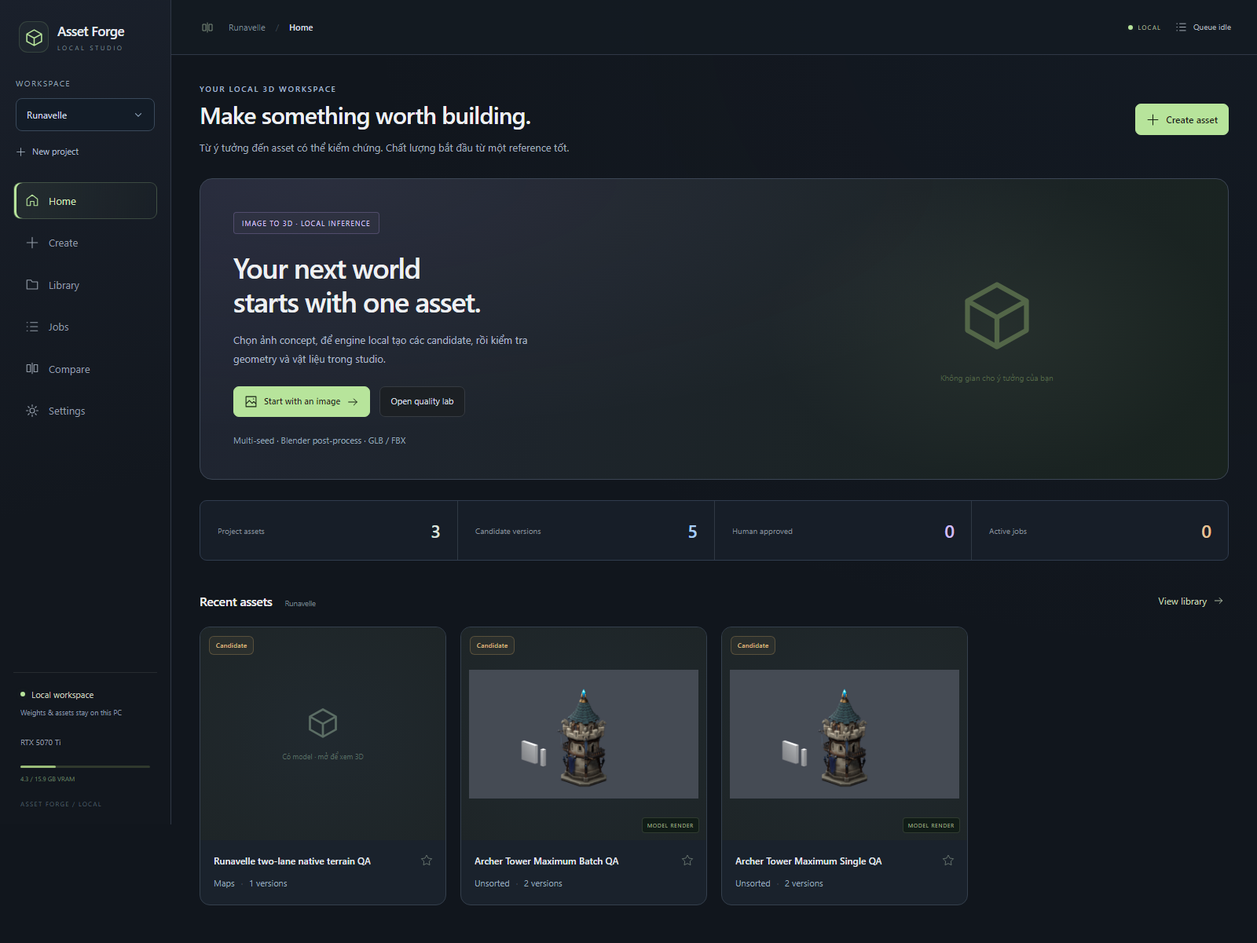
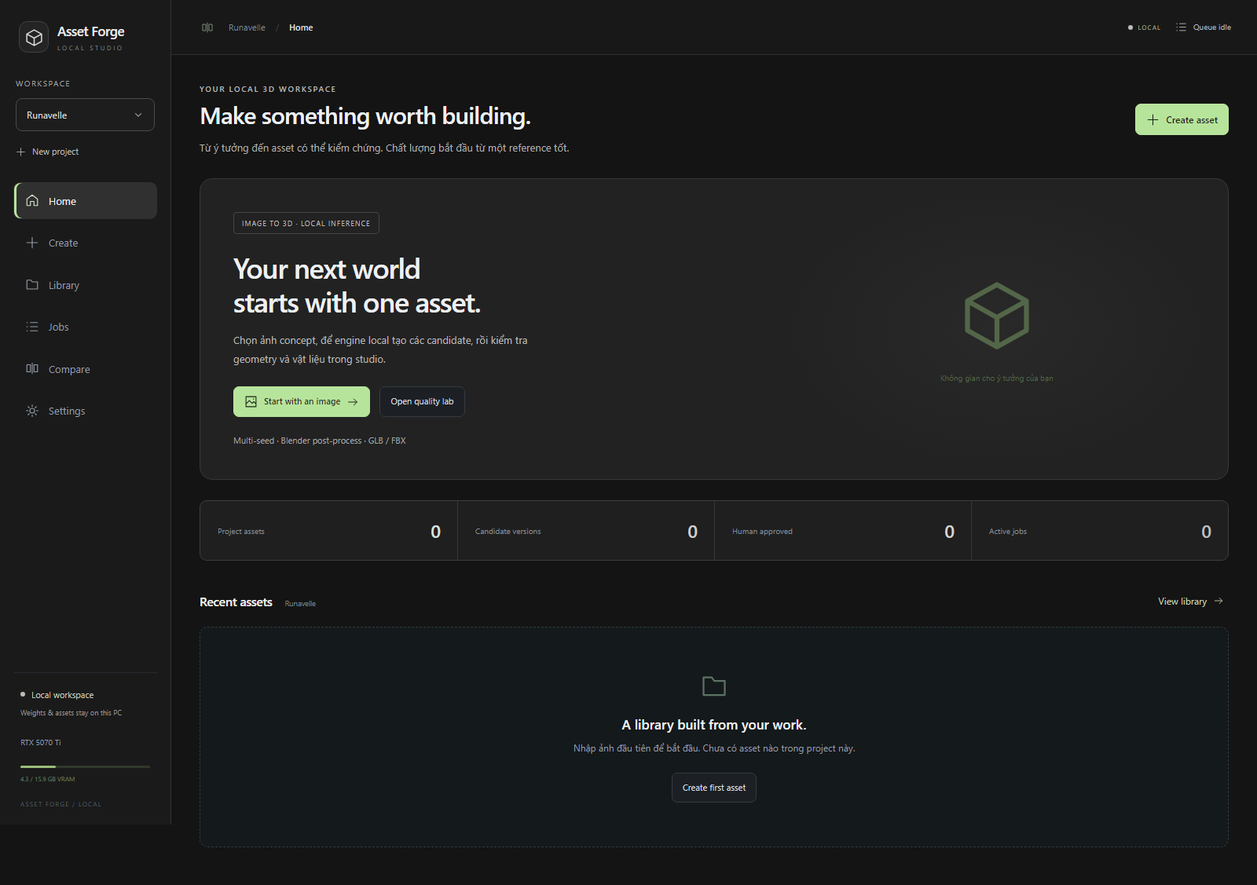
style: replace tinted outlined panels with a neutral graphite studio

diff --git a/apps/web/src/refinement.css b/apps/web/src/refinement.css
@@ -1,161 +1,210 @@
-/* Expansion studio: restrained mint actions, blue information, lilac creative tools,
-   amber review, and coral errors. Status color always accompanies a text label. */
+/* Graphite studio: solid neutral surfaces, deliberate spacing, and color reserved for primary actions and concise status marks. */
 .studio {
-  --accent: #b7e49b;
-  --line: #303944;
-  --surface: #181e26;
-  --muted: #99a7b7;
-  --info: #9ac8f8;
-  --creative: #c2b1ef;
-  color: #e4e9ef;
-  background: radial-gradient(ellipse at 95% 0, #45658a0d, transparent 50%), #11161d;
+  --accent: #bdbdbd;
+  --line: #3a3a3a;
+  --surface: #1f1f1f;
+  --muted: #a8a8a8;
+  --info: #c9c9c9;
+  --creative: #cbcbcb;
+  color: #e9e9e9;
+  background: radial-gradient(ellipse at 95% 0, #6767670d, transparent 50%), #171717;
 }
 .studio button, .studio a, .studio input, .studio textarea, .studio summary {
   transition: background-color 160ms ease, border-color 160ms ease, color 160ms ease, box-shadow 160ms ease, transform 160ms ease;
 }
 .studio :is(button,a,input,textarea,summary):focus-visible, .afs-select-trigger:focus-visible {
-  outline: 2px solid #a9d9ff;
+  outline: 2px solid #d6d6d6;
   outline-offset: 3px;
-  box-shadow: 0 0 0 5px #82b5f315;
+  box-shadow: 0 0 0 5px #b9b9b915;
 }
 .studio button:active:not(:disabled) { transform: translateY(1px); }
-.studio-sidebar { background: linear-gradient(165deg, #1a202b, #12171e 60%); border-right-color: #303846; }
-.studio .studio-topbar { background: #141a22e8; border-bottom-color: #303846; }
+.studio-sidebar { background: linear-gradient(165deg, #222222, #181818 60%); border-right-color: #3a3a3a; }
+.studio .studio-topbar { background: #1b1b1be8; border-bottom-color: #3a3a3a; }
 .studio .studio-main { padding: 32px 36px 48px; }
 .studio .studio-brand > span { letter-spacing: -.45px; }
-.studio .brand-symbol { background: #b7e49b0b; border: 1px solid #b7e49b26; border-radius: 11px; width: 38px; height: 40px; }
+.studio .brand-symbol { background: #bdbdbd0b; border: 1px solid #bdbdbd26; border-radius: 11px; width: 38px; height: 40px; }
 .studio .project-switch { margin-top: 32px; margin-bottom: 24px; }
-.studio .project-switch > label { color: #94a1b2; font-size: 10px; letter-spacing: 1.5px; margin-bottom: 12px; }
-.studio .project-new { margin-top: 12px; padding: 6px 0; font-size: 11px; color: #aebccd; }
+.studio .project-switch > label { color: #a2a2a2; font-size: 10px; letter-spacing: 1.5px; margin-bottom: 12px; }
+.studio .project-new { margin-top: 12px; padding: 6px 0; font-size: 11px; color: #bdbdbd; }
 .studio-sidebar nav > a { padding: 13px 14px; font-size: 13px; border-radius: 9px; }
-.studio-sidebar nav > a.current { background: linear-gradient(100deg, #b7e49b15, #b7e49b05); border-color: #b7e49b36; box-shadow: inset 3px 0 #b7e49b; }
-.studio-sidebar nav > a:not(.current):hover { transform: translateX(2px); background: #93b4df0a; }
+.studio-sidebar nav > a.current { background: linear-gradient(100deg, #bdbdbd15, #bdbdbd05); border-color: #bdbdbd36; box-shadow: inset 3px 0 #bdbdbd; }
+.studio-sidebar nav > a:not(.current):hover { transform: translateX(2px); background: #b7b7b70a; }
 .studio .sidebar-bottom { padding-top: 20px; }
-.studio .sidebar-bottom > small { color: #8896a8; line-height: 1.7; }
-.studio .overline { color: #a2b7cf; font-size: 10px; letter-spacing: 1.7px; }
+.studio .sidebar-bottom > small { color: #979797; line-height: 1.7; }
+.studio .overline { color: #b8b8b8; font-size: 10px; letter-spacing: 1.7px; }
 .studio .page-heading { margin-bottom: 28px; }
 .studio .page-heading, .studio .studio-empty { animation: afs-reveal 200ms ease-out; }
 .studio .page-heading h1 { letter-spacing: -.8px; }
-.studio .page-heading p { color: #a1adbe; font-size: 13px; max-width: 720px; }
-.studio .home-hero { border-color: #3c4655; background: radial-gradient(ellipse at 12% 0, #c3acec11, transparent 60%), linear-gradient(115deg, #202533, #19231f); border-radius: 16px; }
+.studio .page-heading p { color: #afafaf; font-size: 13px; max-width: 720px; }
+.studio .home-hero { border-color: #484848; background: radial-gradient(ellipse at 12% 0, #c9c9c911, transparent 60%), linear-gradient(115deg, #282828, #1e1e1e); border-radius: 16px; }
 .studio .hero-copy { padding: 42px; }
-.studio .hero-copy .pill { color: #d4c3f2; border-color: #bba1ef40; background: #c2b1ef0a; font-size: 9px; padding: 7px 10px; }
-.studio .hero-copy > p { color: #aeb9c8; font-size: 13px; }
-.studio .hero-footnote { color: #96a6b8; font-size: 11px; }
-.studio .workspace-stats { margin: 26px 0 36px; background: #171e28; border-color: #303c4e; }
+.studio .hero-copy .pill { color: #d8d8d8; border-color: #c4c4c440; background: #cbcbcb0a; font-size: 9px; padding: 7px 10px; }
+.studio .hero-copy > p { color: #bababa; font-size: 13px; }
+.studio .hero-footnote { color: #a7a7a7; font-size: 11px; }
+.studio .workspace-stats { margin: 26px 0 36px; background: #1f1f1f; border-color: #3e3e3e; }
 .studio .workspace-stats > div { padding: 22px; }
-.studio .workspace-stats > div:nth-child(2) strong { color: #a9cef5; }
-.studio .workspace-stats > div:nth-child(3) strong { color: #cfbdf3; }
-.studio .workspace-stats > div:nth-child(4) strong { color: #e4c298; }
+.studio .workspace-stats > div:nth-child(2) strong { color: #cfcfcf; }
+.studio .workspace-stats > div:nth-child(3) strong { color: #d5d5d5; }
+.studio .workspace-stats > div:nth-child(4) strong { color: #bfbfbf; }
 .studio .create-workspace { gap: 26px; }
-.studio .create-controls { padding: 24px; border: 1px solid #323c48; background: linear-gradient(165deg, #1c232d, #171e25); border-radius: 14px; }
-.studio .studio-field { gap: 11px; margin-bottom: 24px; font-size: 12px; color: #b8c4d1; }
-.studio .studio-field :is(input:not([type="checkbox"]),textarea) { padding: 12px 14px; border-color: #364452; background: #111923; border-radius: 8px; font-size: 13px; }
-.studio .studio-field small { color: #91a0b1; line-height: 1.75; font-size: 11px; }
+.studio .create-controls { padding: 24px; border: 1px solid #3d3d3d; background: linear-gradient(165deg, #242424, #1e1e1e); border-radius: 14px; }
+.studio .studio-field { gap: 11px; margin-bottom: 24px; font-size: 12px; color: #c4c4c4; }
+.studio .studio-field :is(input:not([type="checkbox"]),textarea) { padding: 12px 14px; border-color: #444444; background: #1a1a1a; border-radius: 8px; font-size: 13px; }
+.studio .studio-field small { color: #a1a1a1; line-height: 1.75; font-size: 11px; }
 .studio .field-pair { gap: 18px; }
-.studio .input-tabs { margin-bottom: 26px; border-color: #344352; padding: 4px; background: #111820; border-radius: 9px; }
-.studio .input-tabs > button { padding: 11px 8px; color: #a4b0bf; }
-.studio .input-tabs > button[aria-selected="true"] { color: #d6e9c8; background: #314135; border-radius: 6px; }
+.studio .input-tabs { margin-bottom: 26px; border-color: #434343; padding: 4px; background: #181818; border-radius: 9px; }
+.studio .input-tabs > button { padding: 11px 8px; color: #b1b1b1; }
+.studio .input-tabs > button[aria-selected="true"] { color: #d8d8d8; background: #383838; border-radius: 6px; }
 .studio .quality-options { gap: 8px; }
-.studio .quality-options button { padding: 13px 6px; gap: 6px; border-radius: 9px; background: #141c25; color: #a6b3c2; }
-.studio .quality-options button.selected { background: #b7e49b10; border-color: #b7e49b70; box-shadow: inset 0 1px #d6f7c315; }
-.studio .quality-options button small { color: #a2b697; }
-.studio .advanced { padding-top: 20px; margin-bottom: 24px; border-top-color: #36424e; }
-.studio .advanced > summary { color: #c7bbdf; padding: 5px 0; }
-.studio .advanced > summary > span { color: #98a6b8; }
+.studio .quality-options button { padding: 13px 6px; gap: 6px; border-radius: 9px; background: #1c1c1c; color: #b4b4b4; }
+.studio .quality-options button.selected { background: #bdbdbd10; border-color: #bdbdbd70; box-shadow: inset 0 1px #dbdbdb15; }
+.studio .quality-options button small { color: #a5a5a5; }
+.studio .advanced { padding-top: 20px; margin-bottom: 24px; border-top-color: #424242; }
+.studio .advanced > summary { color: #cbcbcb; padding: 5px 0; }
+.studio .advanced > summary > span { color: #a7a7a7; }
 .studio .advanced[open] > :not(summary) { animation: afs-reveal 180ms ease-out; }
-.studio .generate-actions { gap: 12px; padding-top: 22px; border-top-color: #36424e; }
-.studio .generate-button { min-height: 48px; border-radius: 9px; box-shadow: 0 3px 18px #a1d67b13; }
-.studio .primary:hover:not(:disabled) { box-shadow: 0 5px 22px #b7e49b25; }
-.studio .dropzone { margin-bottom: 24px; border-color: #57768b; background: radial-gradient(ellipse at 50% 0, #74b7ed0d, transparent), #131c25; border-radius: 11px; }
-.studio .dropzone strong { color: #becfe0; }
-.studio .dropzone > span { color: #97afc5; }
-.studio .dropzone:hover { background-color: #182431; border-color: #98c9ee; }
-.studio .create-preview { border-color: #3a4655; border-radius: 14px; background: #171f29; box-shadow: 0 14px 45px #00000015; }
-.studio .preview-tabs { padding-right: 18px; background: #1b232e; border-bottom-color: #33414f; }
+.studio .generate-actions { gap: 12px; padding-top: 22px; border-top-color: #424242; }
+.studio .generate-button { min-height: 48px; border-radius: 9px; box-shadow: 0 3px 18px #a6a6a613; }
+.studio .primary:hover:not(:disabled) { box-shadow: 0 5px 22px #bdbdbd25; }
+.studio .dropzone { margin-bottom: 24px; border-color: #737373; background: radial-gradient(ellipse at 50% 0, #b3b3b30d, transparent), #1c1c1c; border-radius: 11px; }
+.studio .dropzone strong { color: #cfcfcf; }
+.studio .dropzone > span { color: #aeaeae; }
+.studio .dropzone:hover { background-color: #242424; border-color: #c5c5c5; }
+.studio .create-preview { border-color: #474747; border-radius: 14px; background: #202020; box-shadow: 0 14px 45px #00000015; }
+.studio .preview-tabs { padding-right: 18px; background: #242424; border-bottom-color: #414141; }
 .studio .preview-tabs button { padding: 18px 21px; font-size: 12px; }
-.studio .preview-stage { background: radial-gradient(ellipse at 45% 25%, #4a617526, transparent 68%), #141b23; }
-.studio .preview-empty p { color: #97a7bb; line-height: 1.8; }
-.studio .preview-empty > span { color: #9aadc3; border-color: #4a61733d; }
-.studio .preview-toolbar { padding: 14px 18px; gap: 12px; border-color: #34404e; background: #19212b; flex-wrap: wrap; }
+.studio .preview-stage { background: radial-gradient(ellipse at 45% 25%, #60606026, transparent 68%), #1b1b1b; }
+.studio .preview-empty p { color: #a8a8a8; line-height: 1.8; }
+.studio .preview-empty > span { color: #aeaeae; border-color: #5f5f5f3d; }
+.studio .preview-toolbar { padding: 14px 18px; gap: 12px; border-color: #414141; background: #222222; flex-wrap: wrap; }
 .studio .preview-toolbar .segmented { flex-wrap: wrap; gap: 3px; padding: 4px; border-radius: 8px; }
-.studio .preview-toolbar .segmented > button { padding: 8px 10px; color: #aab6c5; }
-.studio .preview-toolbar .segmented > button.selected { background: #344656; color: #d0e2f3; }
-.studio .result-panel { padding: 22px; border-color: #34404e; }
+.studio .preview-toolbar .segmented > button { padding: 8px 10px; color: #b7b7b7; }
+.studio .preview-toolbar .segmented > button.selected { background: #454545; color: #e2e2e2; }
+.studio .result-panel { padding: 22px; border-color: #414141; }
 .studio .result-heading { gap: 16px; margin-bottom: 18px; }
 .studio .result-actions { gap: 10px; }
 .studio .result-actions button { padding: 10px 13px; min-height: 38px; border-radius: 8px; }
-.studio .result-actions .accent-outline { color: #cdb9f2; border-color: #9b7bce66; background: #b995ef09; }
-.studio .result-disclaimer { margin-top: 16px; color: #a1adbe; }
+.studio .result-actions .accent-outline { color: #d3d3d3; border-color: #a1a1a166; background: #bfbfbf09; }
+.studio .result-disclaimer { margin-top: 16px; color: #afafaf; }
 .studio .candidate-gallery { gap: 12px; padding-top: 18px; }
 .studio .candidate-tile { padding: 9px; border-radius: 9px; }
 .studio .candidate-tile > strong { padding: 10px 3px 7px; font-size: 11px; }
-.studio .asset-card { border-radius: 13px; border-color: #35404d; background: #1a222c; transition: border-color 180ms ease, box-shadow 180ms ease, transform 180ms ease; }
-.studio .asset-card:hover { border-color: #68859a; box-shadow: 0 10px 25px #0002; transform: translateY(-3px); }
+.studio .asset-card { border-radius: 13px; border-color: #414141; background: #232323; transition: border-color 180ms ease, box-shadow 180ms ease, transform 180ms ease; }
+.studio .asset-card:hover { border-color: #828282; box-shadow: 0 10px 25px #0002; transform: translateY(-3px); }
 .studio .asset-card-info { padding: 17px; }
-.studio .asset-card-info p { margin-top: 10px; color: #98a9bc; }
+.studio .asset-card-info p { margin-top: 10px; color: #aaaaaa; }
 .studio .library-toolbar { gap: 12px; margin-bottom: 24px; flex-wrap: wrap; }
-.studio .settings-panel { padding: 26px; border-radius: 13px; border-color: #35404d; background: #19212b; }
-.studio .settings-panel > h3 { margin-top: 0; margin-bottom: 18px; color: #bfd6ee; }
+.studio .settings-panel { padding: 26px; border-radius: 13px; border-color: #414141; background: #222222; }
+.studio .settings-panel > h3 { margin-top: 0; margin-bottom: 18px; color: #d6d6d6; }
 .studio .settings-panel dl > div { padding: 14px 0; gap: 16px; }
 .studio .settings-panel dd { line-height: 1.7; }
 .studio .engine-setting { padding: 18px 0; }
-.studio .studio-job { padding: 18px; border-color: #35404d; background: #19212b; border-radius: 10px; gap: 18px; }
-.studio .job-main p { color: #9aabc0; line-height: 1.7; }
+.studio .studio-job { padding: 18px; border-color: #414141; background: #222222; border-radius: 10px; gap: 18px; }
+.studio .job-main p { color: #acacac; line-height: 1.7; }
 .studio .job-actions { gap: 9px; flex-wrap: wrap; }
-.studio .job-stage { color: #a8c9eb; }
+.studio .job-stage { color: #c9c9c9; }
 .studio .state { padding: 5px 8px; border-radius: 6px; line-height: 1.5; }
-.studio :is(.state-running,.state-processing,.state-queued) { color: #a9d7ff; border-color: #6fa7d747; background: #5f9fc915; }
-.studio :is(.state-candidate,.state-review_required) { color: #eccc9b; border-color: #d2a96647; background: #d2a96612; }
-.studio :is(.state-failed,.state-rejected,.state-blocked) { color: #efb1ab; border-color: #df888247; background: #df888212; }
+.studio :is(.state-running,.state-processing,.state-queued) { color: #d5d5d5; border-color: #a4a4a447; background: #98989815; }
+.studio :is(.state-candidate,.state-review_required) { color: #c6c6c6; border-color: #a0a0a047; background: #a0a0a012; }
+.studio :is(.state-failed,.state-rejected,.state-blocked) { color: #c4c4c4; border-color: #a3a3a347; background: #a3a3a312; }
 .studio .studio-message { padding: 15px 18px; border-radius: 10px; animation: afs-reveal 180ms ease-out; }
-.studio .modal-backdrop { backdrop-filter: blur(7px); background: #090d16b8; }
-.studio .studio-modal { padding: 30px; border: 1px solid #465262; border-radius: 16px; background: linear-gradient(160deg, #222b38, #171e28); box-shadow: 0 30px 100px #0007; animation: afs-reveal 180ms ease-out; }
+.studio .modal-backdrop { backdrop-filter: blur(7px); background: #0f0f0fb8; }
+.studio .studio-modal { padding: 30px; border: 1px solid #535353; border-radius: 16px; background: #252525; box-shadow: 0 30px 100px #0007; animation: afs-reveal 180ms ease-out; }
 .studio .studio-modal .studio-field { margin-bottom: 22px; }
 .studio .modal-actions { gap: 12px; padding-top: 18px; }
-.onboarding-workspace { max-width: 760px; margin: 8vh auto 0; padding: 46px 42px; text-align: center; border: 1px solid #39475b; border-radius: 20px; background: radial-gradient(ellipse at 50% 0, #a4a1e815, transparent 65%), #19222d; animation: afs-reveal 220ms ease-out; }
-.onboarding-symbol { width: 78px; height: 78px; margin: 0 auto 27px; display: grid; place-items: center; color: #d0b9ef; background: #bb9ce911; border: 1px solid #bb9ce935; border-radius: 22px; }
+.onboarding-workspace { max-width: 760px; margin: 8vh auto 0; padding: 46px 42px; text-align: center; border: 1px solid #494949; border-radius: 20px; background: radial-gradient(ellipse at 50% 0, #bababa15, transparent 65%), #232323; animation: afs-reveal 220ms ease-out; }
+.onboarding-symbol { width: 78px; height: 78px; margin: 0 auto 27px; display: grid; place-items: center; color: #d3d3d3; background: #c0c0c011; border: 1px solid #c0c0c035; border-radius: 22px; }
 .studio .onboarding-workspace h1 { margin: 18px 0; font-size: clamp(26px, 3vw, 38px); letter-spacing: -1px; }
-.onboarding-workspace > p { max-width: 510px; margin: 0 auto 28px; color: #aab8c9; font-size: 14px; line-height: 1.9; }
+.onboarding-workspace > p { max-width: 510px; margin: 0 auto 28px; color: #b9b9b9; font-size: 14px; line-height: 1.9; }
 .studio .onboarding-workspace > button { padding: 14px 22px; }
-.onboarding-steps { display: flex; flex-wrap: wrap; justify-content: center; gap: 18px; margin: 34px 0 24px; padding-top: 27px; border-top: 1px solid #394456; font-size: 12px; color: #aebdd1; }
-.onboarding-steps b { display: inline-block; margin-right: 8px; color: #9ec8ef; font-weight: 500; }
-.onboarding-workspace > small { color: #99a9be; line-height: 1.7; }
-.export-organization-note { display: flex; gap: 12px; padding: 15px; margin: 18px 0; border: 1px solid #719eca40; background: #719eca0a; color: #b1cce6; border-radius: 9px; font-size: 12px; line-height: 1.8; }
+.onboarding-steps { display: flex; flex-wrap: wrap; justify-content: center; gap: 18px; margin: 34px 0 24px; padding-top: 27px; border-top: 1px solid #464646; font-size: 12px; color: #bfbfbf; }
+.onboarding-steps b { display: inline-block; margin-right: 8px; color: #c7c7c7; font-weight: 500; }
+.onboarding-workspace > small { color: #ababab; line-height: 1.7; }
+.export-organization-note { display: flex; gap: 12px; padding: 15px; margin: 18px 0; border: 1px solid #9e9e9e40; background: #9e9e9e0a; color: #cccccc; border-radius: 9px; font-size: 12px; line-height: 1.8; }
 .export-organization-note > svg { flex-shrink: 0; margin-top: 3px; }
-.export-directory code { display: block; margin-top: 7px; overflow-wrap: anywhere; color: #b4cbe3; }
-.studio .batch-intake > section, .studio .batch-manifest, .studio .batch-sidebar > section { border-radius: 13px; border-color: #35404d; background: #19212b; padding: 24px; }
+.export-directory code { display: block; margin-top: 7px; overflow-wrap: anywhere; color: #cbcbcb; }
+.studio .batch-intake > section, .studio .batch-manifest, .studio .batch-sidebar > section { border-radius: 13px; border-color: #414141; background: #222222; padding: 24px; }
 .studio .batch-heading { gap: 24px; margin-bottom: 26px; }
 .studio .batch-intake { gap: 22px; }
 .studio .batch-intake-actions, .studio .batch-run-actions { gap: 12px; }
-.studio .batch-mode-note { padding: 14px 16px; color: #b5cce4; border-color: #6e9bc347; background: #6e9bc30c; }
+.studio .batch-mode-note { padding: 14px 16px; color: #cccccc; border-color: #99999947; background: #9999990c; }
 .studio .batch-checkpoints { gap: 10px; padding: 16px 20px; }
-.studio .batch-table th { padding: 14px 12px; color: #b8c5d5; }
+.studio .batch-table th { padding: 14px 12px; color: #c6c6c6; }
 .studio .batch-table td { padding: 15px 12px; }
-.studio .creation-mode { margin-bottom: 26px; padding: 5px; gap: 5px; border: 1px solid #364352; background: #17202a; border-radius: 10px; }
-.studio .creation-mode > button { padding: 11px 20px; color: #a4b3c5; border-radius: 7px; }
-.studio .creation-mode > button[aria-selected="true"] { background: #344536; color: #d8edc9; }
+.studio .creation-mode { margin-bottom: 26px; padding: 5px; gap: 5px; border: 1px solid #444444; background: #202020; border-radius: 10px; }
+.studio .creation-mode > button { padding: 11px 20px; color: #b4b4b4; border-radius: 7px; }
+.studio .creation-mode > button[aria-selected="true"] { background: #3a3a3a; color: #dadada; }
 
+/* Neutralize legacy status-colored containers, retaining concise status text. */
+.studio { background: #141414; --line: #383838; --surface: #202020; --accent-soft: #ffffff0b; }
+.studio .studio-sidebar { background: #1a1a1a; border-right-color: #333; }
+.studio .studio-topbar { background: #181818; border-bottom-color: #303030; }
+.studio .brand-symbol { background: #242424; border-color: #414141; color: #d7d7d7; }
+.studio-sidebar nav > a.current { background: #303030; border-color: transparent; color: #f1f1f1; box-shadow: inset 3px 0 #b7e49b; }
+.studio-sidebar nav > a.current svg { color: #d7e8ca; }
+.studio .home-hero { background: #222; border-color: #383838; }
+.studio .hero-reference { background: radial-gradient(ellipse, #ffffff08, transparent 70%); }
+.studio .hero-copy .pill { color: #bdbdbd; background: none; border-color: #464646; }
+.studio .create-controls, .studio .settings-panel, .studio .studio-job { background: #202020; border-color: #383838; }
+.studio .studio-field :is(input:not([type="checkbox"]),textarea), .studio .afs-select-trigger { background: #181818; border-color: #454545; color: #dedede; }
+.studio .input-tabs, .studio .creation-mode, .studio .preview-toolbar .segmented { background: #181818; border-color: #3d3d3d; }
+.studio .input-tabs > button[aria-selected="true"], .studio .creation-mode > button[aria-selected="true"], .studio .preview-toolbar .segmented > button.selected { background: #3b3b3b; color: #f5f5f5; }
+.studio .quality-options button { background: #202020; border-color: #414141; color: #bdbdbd; }
+.studio .quality-options button.selected { background: #3a3a3a; border-color: #777; color: #f5f5f5; box-shadow: none; }
+.studio .quality-options button small { color: #aaa; }
+.studio .create-preview { background: #1d1d1d; border-color: #414141; }
+.studio .preview-tabs, .studio .preview-toolbar { background: #242424; border-color: #3c3c3c; }
+.studio .preview-tabs button.selected { color: #eee; }
+.studio .preview-tabs button.selected:after { background: #b7e49b; }
+.studio .preview-stage { background: #1b1b1b; }
+.studio .result-panel { background: #202020; border-color: #3c3c3c; }
+.studio .result-actions button, .studio .result-actions .accent-outline { background: #292929; border-color: #4c4c4c; color: #ddd; }
+.studio .result-actions button:hover:not(:disabled) { background: #393939; border-color: #777; color: #fff; }
+.studio .candidate-gallery, .studio .asset-details { border-color: #414141; }
+.studio .candidate-gallery-heading, .studio .candidate-gallery-heading > span:last-child, .studio .candidate-tile > strong, .studio .candidate-tile > small { color: #bbb; }
+.studio .candidate-tile { background: #252525; border-color: #454545; }
+.studio .candidate-tile.selected { background: #333; border-color: #888; box-shadow: none; }
+.studio .candidate-thumb { background: #202020; color: #aaa; }
+.studio .candidate-thumb > span, .studio .candidate-thumb > b { background: #292929; border-color: #555; color: #ddd; }
+.studio .asset-visual, .studio .asset-card, .studio .asset-visual .reference-label { background: #252525; border-color: #404040; }
+.studio .asset-visual .reference-label { color: #bbb; }
+.studio .dropzone { background: #1b1b1b; border-color: #606060; }
+.studio .dropzone:hover { background: #262626; border-color: #999; }
+.studio .advanced, .studio .generate-actions { border-top-color: #3d3d3d; }
+.studio .advanced > summary, .studio .advanced > summary:after, .studio .check-field, .studio .control-footnote, .studio .draft-indicator, .studio .preview-tip { color: #aaa; }
+.studio .primary { background: #b7e49b; border-color: #b7e49b; color: #1b2517; box-shadow: none; }
+.studio .primary:hover:not(:disabled) { background: #c5edae; border-color: #c5edae; box-shadow: none; }
+.studio .state { background: #2d2d2d; border-color: transparent; color: #c4c4c4; }
+.studio :is(.state-running,.state-processing,.state-queued) { color: #9ac8f8; background: #2d2d2d; border-color: transparent; }
+.studio :is(.state-candidate,.state-review_required) { color: #e4c298; background: #2d2d2d; border-color: transparent; }
+.studio :is(.state-failed,.state-rejected,.state-blocked) { color: #e5a39b; background: #2d2d2d; border-color: transparent; }
+.studio .studio-message, .studio .capability-note, .studio .batch-mode-note, .studio .batch-inheritance { background: #292929; border-color: #444; color: #c9c9c9; }
+.studio .studio-message.error { background: #292929; border-color: #555; color: #edb5ad; }
+.studio .batch-checkpoints, .studio .batch-reference-list > label { background: #242424; border-color: #424242; }
+.studio .studio-modal { background: #252525; border-color: #555; }
+.onboarding-workspace { background: #202020; border-color: #3c3c3c; }
+.onboarding-symbol { color: #ddd; background: #2a2a2a; border-color: #494949; }
+.export-organization-note { background: #2b2b2b; border-color: #454545; color: #ccc; }
 .afs-select { display: inline-flex; position: relative; min-width: 0; max-width: 100%; vertical-align: middle; }
 .studio-field > .afs-select, .field > .afs-select, .project-switch > .afs-select { display: flex; width: 100%; }
 select.afs-select-native { position: absolute !important; width: 1px !important; height: 1px !important; padding: 0 !important; margin: -1px !important; overflow: hidden !important; clip-path: inset(50%) !important; border: 0 !important; white-space: nowrap !important; pointer-events: none !important; }
-.studio .afs-select-trigger, .afs-select-trigger { display: flex; align-items: center; justify-content: space-between; gap: 16px; width: 100%; min-width: 0; min-height: 42px; padding: 11px 13px; color: #d3dfec; background: #131c27; border: 1px solid #3a495b; border-radius: 8px; font-size: 12px; line-height: 1.5; text-align: left; cursor: pointer; }
+.studio .afs-select-trigger, .afs-select-trigger { display: flex; align-items: center; justify-content: space-between; gap: 16px; width: 100%; min-width: 0; min-height: 42px; padding: 11px 13px; color: #dfdfdf; background: #1d1d1d; border: 1px solid #4a4a4a; border-radius: 8px; font-size: 12px; line-height: 1.5; text-align: left; cursor: pointer; }
 .afs-select-value { overflow: hidden; text-overflow: ellipsis; white-space: nowrap; min-width: 0; }
-.afs-select-trigger > svg { flex-shrink: 0; color: #8fa5bc; transition: transform 160ms ease; }
-.afs-select.is-open .afs-select-trigger { border-color: #9ec9ee; box-shadow: 0 0 0 3px #88bced12; }
+.afs-select-trigger > svg { flex-shrink: 0; color: #a5a5a5; transition: transform 160ms ease; }
+.afs-select.is-open .afs-select-trigger { border-color: #c7c7c7; box-shadow: 0 0 0 3px #bbbbbb12; }
 .afs-select.is-open .afs-select-trigger > svg { transform: rotate(180deg); }
-.studio .afs-select-trigger:hover:not(:disabled) { border-color: #7199be; background: #1d2b3b; }
+.studio .afs-select-trigger:hover:not(:disabled) { border-color: #989898; background: #2c2c2c; }
 .afs-select.is-disabled { opacity: .6; }
 .afs-select.is-disabled .afs-select-trigger { opacity: 1; cursor: not-allowed; }
-.afs-select-menu { position: fixed; z-index: 10000; overflow-y: auto; overscroll-behavior: contain; padding: 6px; border: 1px solid #506176; border-radius: 10px; background: #202b39; color: #deebf7; box-shadow: 0 16px 46px #0007, 0 2px 8px #0003; font: 12px/1.6 Inter, "Segoe UI", Arial, sans-serif; animation: afs-menu 140ms ease-out; scrollbar-width: thin; scrollbar-color: #52667e transparent; }
+.afs-select-menu { position: fixed; z-index: 10000; overflow-y: auto; overscroll-behavior: contain; padding: 6px; border: 1px solid #626262; border-radius: 10px; background: #2c2c2c; color: #ebebeb; box-shadow: 0 16px 46px #0007, 0 2px 8px #0003; font: 12px/1.6 Inter, "Segoe UI", Arial, sans-serif; animation: afs-menu 140ms ease-out; scrollbar-width: thin; scrollbar-color: #676767 transparent; }
 .afs-select-option { display: flex; align-items: center; justify-content: space-between; gap: 16px; min-height: 39px; padding: 9px 11px; border-radius: 6px; cursor: pointer; transition: background-color 100ms ease, color 100ms ease; }
 .afs-select-option > span:first-child { overflow-wrap: anywhere; }
-.afs-select-option.is-active { background: #9bc5ed19; }
-.afs-select-option[aria-selected="true"] { color: #d4edbd; background: #b7e49b12; }
-.afs-select-option[aria-selected="true"].is-active { background: #b7e49b23; }
+.afs-select-option.is-active { background: #c4c4c419; }
+.afs-select-option[aria-selected="true"] { color: #d5d5d5; background: #bdbdbd12; }
+.afs-select-option[aria-selected="true"].is-active { background: #bdbdbd23; }
 .afs-select-option[aria-disabled="true"] { opacity: .45; cursor: not-allowed; }
-.afs-select-check { color: #b7e49b; font-weight: 700; }
-.afs-select-group { padding: 9px 11px 5px; color: #9eb0c7; text-transform: uppercase; letter-spacing: 1px; font-size: 10px; }
+.afs-select-check { color: #bdbdbd; font-weight: 700; }
+.afs-select-group { padding: 9px 11px 5px; color: #b2b2b2; text-transform: uppercase; letter-spacing: 1px; font-size: 10px; }
 .preview-toolbar > .afs-select { min-width: 125px; }
 .result-heading > .afs-select { max-width: 45%; }
 .library-toolbar > .afs-select { min-width: 135px; }
@@ -163,6 +212,12 @@ select.afs-select-native { position: absolute !important; width: 1px !important;
 .batch-history .afs-select { min-width: 180px; max-width: 320px; }
 .batch-intake-actions > .afs-select { flex: 1; }
 .studio .batch-table .afs-select-trigger { min-height: 38px; padding: 9px 10px; }
+.afs-select-menu { background: #292929; border-color: #555; color: #eee; }
+.afs-select-option.is-active { background: #3b3b3b; }
+.afs-select-option[aria-selected="true"], .afs-select-option[aria-selected="true"].is-active { background: #484848; color: #fff; }
+.afs-select-check { color: #dedede; }
+.afs-select.is-open .afs-select-trigger { border-color: #929292; box-shadow: 0 0 0 2px #ffffff0d; }
+.studio .afs-select-trigger:hover:not(:disabled) { border-color: #7a7a7a; background: #2e2e2e; }
 @keyframes afs-reveal { from { opacity: 0; transform: translateY(5px); } to { opacity: 1; transform: translateY(0); } }
 @keyframes afs-menu { from { opacity: 0; transform: translateY(-3px); } to { opacity: 1; transform: translateY(0); } }
 @media (max-width: 1100px) { .studio .studio-main { padding: 26px; } .studio .create-controls { padding: 20px; } .studio .create-workspace { gap: 20px; } }

diff --git a/docs/UI_REFINEMENT.md b/docs/UI_REFINEMENT.md
@@ -2,10 +2,12 @@
 
 User-authorized scope (2026-10-21): improve UI/UX in both distributions, start new libraries with zero sample games, and separate exports by project. Universal generators remain an independent Expansion workstream.
 
-The reusable custom select supports keyboard arrows, Home/End, typeahead, Enter, Escape, outside click, focus and accessible labels. Hidden native inputs preserve controlled values and project-switcher automation; visible menus use a portal and viewport positioning. The shared stylesheet adds more spacing, semantic mint/blue/lilac/amber/coral colors, transitions and reduced-motion support. Real empty-workspace onboarding creates a user-named project without adding assets or jobs.
+The reusable custom select supports keyboard arrows, Home/End, typeahead, Enter, Escape, outside click, focus and accessible labels. Hidden native inputs preserve controlled values and project-switcher automation; visible menus use a portal and viewport positioning. The shared stylesheet adds more spacing, solid graphite surfaces with tonal hierarchy, restrained primary-action color, transitions and reduced-motion support. Real empty-workspace onboarding creates a user-named project without adding assets or jobs.
 
 Exports materialize verified source bytes into `Library/exports/<project-id>/<asset-id>/<export-id>/`. Each export supplies a ZIP containing named project/asset/preset directories and an export manifest with source identity and file checksums. Stable IDs separate games with identical names. GLB/FBX and textures remain available individually. Existing project data, immutable sources, approved masters and generation settings are preserved; legacy unscoped artifacts still migrate to their original benchmark project instead of becoming orphaned.
 
 Validation includes actual small GLB round trips, ZIP contents/checksums, repeated export idempotency, same-name project isolation, fresh empty workspace, existing migration, and real Blender validation in the backend regression suite. Browser evidence covers custom-select behavior, modal Escape, reduced motion, tablet overflow, real project creation/refresh and a loaded existing Archer Tower model (`evidence/ui_refinement.json` and screenshots). Native smoke exercises both the bundled local web assets and WebView UI, a real Archer Tower GLB, project ZIP download, source hash, persistence and relaunch. These checks do not imply new AI inference, artistic approval or Meshy parity.
 
 The original PC 0.3.1 EXE/installer remain rollback files. New PC builds are produced from `release/pc-stable` with the original app identity and separate install name from Expansion. Both editions share the heavy GPU resource lock. Native tests use explicit isolated profile directories so an open user application is not closed or modified.
+
+The user rejected tinted backgrounds and colored card outlines. The final graphite revision removes those treatments from surfaces, candidates, quality controls, actions and custom menus. Real loaded-model screenshots are `evidence/ui_graphite_create_model.png` and `evidence/ui_graphite_select.png`.
